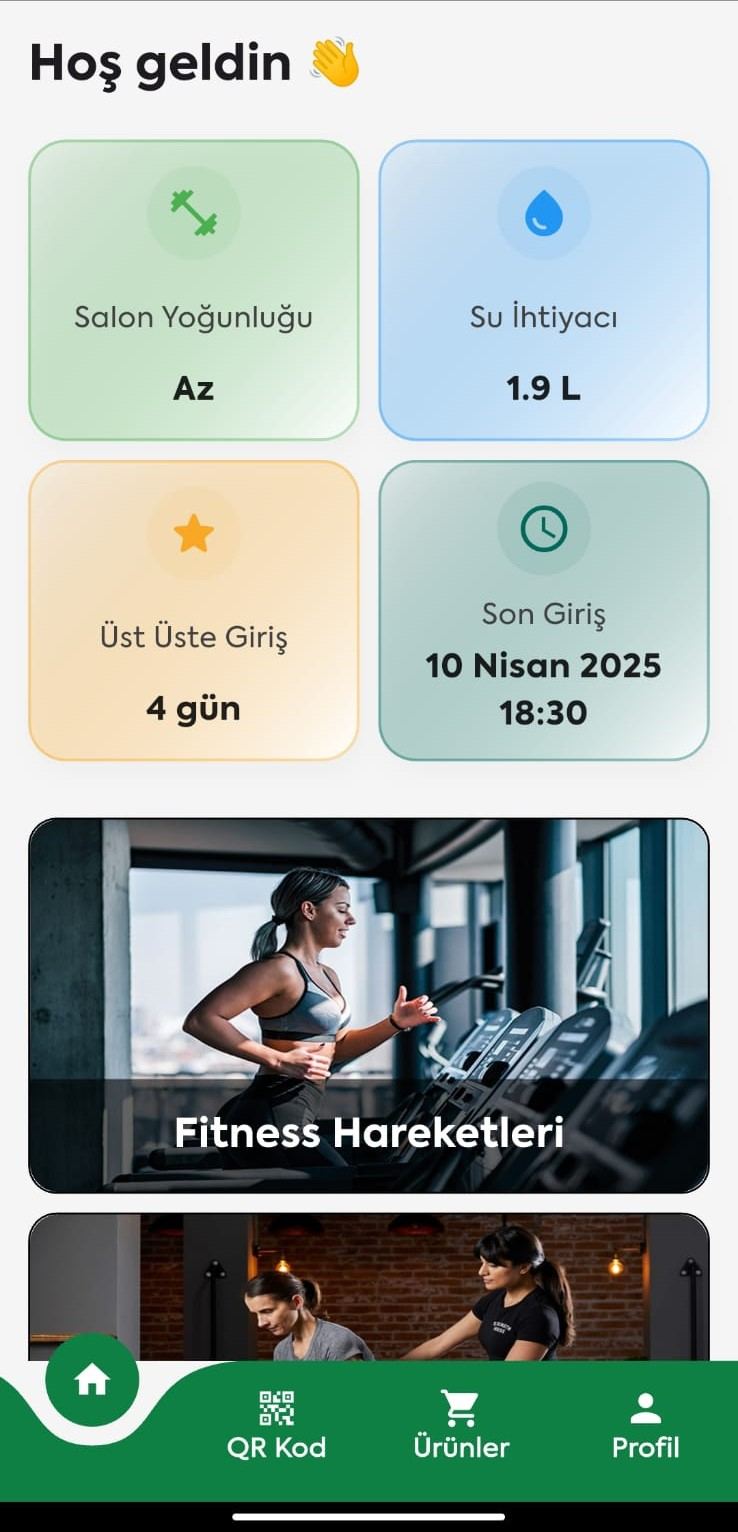
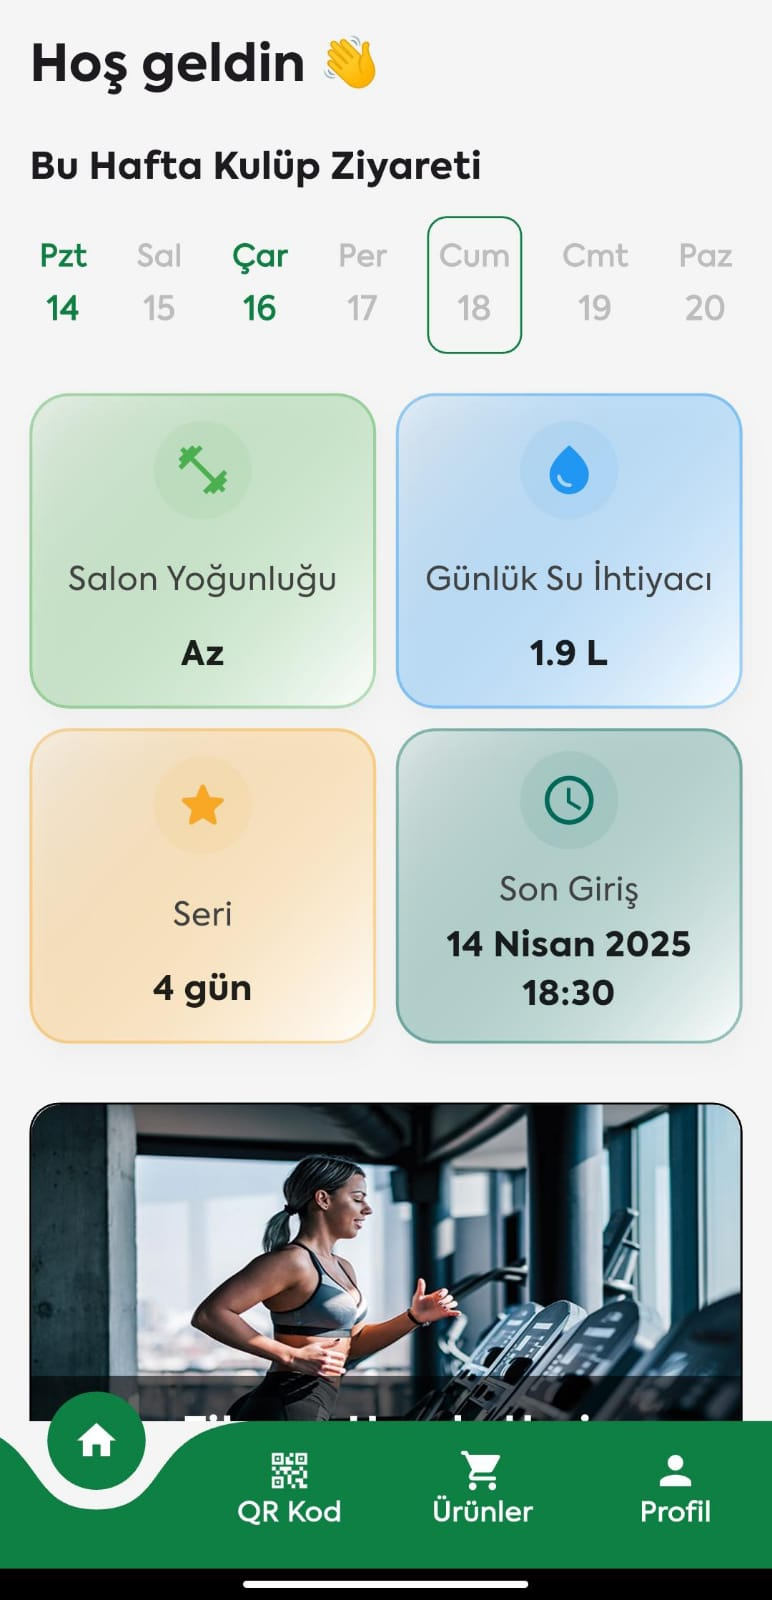
home screen update

diff --git a/lib/global/global_widgets.dart b/lib/global/global_widgets.dart
@@ -2,10 +2,8 @@ import 'package:fitness_app/global/theme_notifier.dart';
 import 'package:fitness_app/module/auth/login/index.dart';
 import 'package:flutter/material.dart';
 import 'package:provider/provider.dart';
-import 'package:rxdart/rxdart.dart';
 import '../module/login_history/login_history_list.dart';
-import 'global_config.dart';
-import 'global_functions.dart';
+import '../module/membership_info/index.dart';
 
 class InputWidget extends StatefulWidget {
   const InputWidget({
@@ -583,9 +581,7 @@ Widget sssContainers(BuildContext context, String title, String content) {
         ),
         child: ExpansionTile(
           onExpansionChanged: (bool expanded) {
-            if (expanded) {
-              FocusScope.of(context).unfocus();
-            }
+            FocusScope.of(context).unfocus();
           },
           iconColor: Colors.black,
           collapsedIconColor: Colors.black,
@@ -648,15 +644,17 @@ Widget feedbackForm(BuildContext context) {
           showSnackBar(context, "Geri bildiriminiz gönderildi");
         },
         style: ElevatedButton.styleFrom(
+          fixedSize: Size(W(context), 55),
           backgroundColor: GlobalConfig.primaryColor,
-          padding: horizontal20 + vertical10,
+          padding: vertical10,
           shape: RoundedRectangleBorder(
             borderRadius: border10,
           ),
         ),
         child: Text(
           "Gönder",
-          style: kAxiformaRegular17.copyWith(fontSize: 13, color: Colors.white),
+          style: kAxiformaRegular17.copyWith(
+              fontSize: 15, color: Colors.white, fontWeight: FontWeight.bold),
         ),
       ),
       const SizedBox(height: 10)
@@ -723,7 +721,7 @@ Widget homeScreenInfoCard({
         Text(
           title,
           style: kAxiformaRegular17.copyWith(
-            fontSize: 13,
+            fontSize: 14,
             color: Colors.grey.shade800,
           ),
           textAlign: TextAlign.center,
@@ -741,4 +739,74 @@ Widget homeScreenInfoCard({
       ],
     ),
   );
+}
+
+class WeeklyGymCalendar extends StatelessWidget {
+  const WeeklyGymCalendar({super.key});
+
+  @override
+  Widget build(BuildContext context) {
+    final today = DateTime.now();
+    final startOfWeek = today.subtract(Duration(days: today.weekday - 1));
+    final weekDays =
+        List.generate(7, (index) => startOfWeek.add(Duration(days: index)));
+
+    return Column(
+      crossAxisAlignment: CrossAxisAlignment.start,
+      children: [
+        Text("Bu Hafta Kulüp Ziyareti",
+            style: kAxiforma18.copyWith(fontSize: 16)),
+        const SizedBox(height: 10),
+        SizedBox(
+          height: 70,
+          child: Row(
+            mainAxisAlignment: MainAxisAlignment.spaceBetween,
+            children: weekDays.map((day) {
+              final dayLabel = DateFormat.E('tr_TR').format(day);
+              final dayNumber = day.day.toString();
+
+              final isToday = DateUtils.isSameDay(day, today);
+              final isVisited = pastGymEntries.any(
+                  (entry) => DateUtils.isSameDay(entry.entryDateTime, day));
+
+              final dayColor =
+                  isVisited ? GlobalConfig.primaryColor : Colors.grey.shade400;
+
+              return Container(
+                padding: horizontal5,
+                decoration: isToday
+                    ? BoxDecoration(
+                        border: Border.all(
+                            color: GlobalConfig.primaryColor, width: 1),
+                        borderRadius: border10,
+                      )
+                    : null,
+                child: Column(
+                  mainAxisAlignment: MainAxisAlignment.center,
+                  children: [
+                    Text(
+                      dayLabel,
+                      style: kAxiformaRegular17.copyWith(
+                          fontSize: 13,
+                          fontWeight: FontWeight.bold,
+                          color: dayColor),
+                    ),
+                    const SizedBox(height: 4),
+                    Text(
+                      dayNumber,
+                      style: kAxiformaRegular17.copyWith(
+                          fontSize: 14,
+                          fontWeight: FontWeight.bold,
+                          color: dayColor),
+                    ),
+                  ],
+                ),
+              );
+            }).toList(),
+          ),
+        ),
+        const SizedBox(height: 20),
+      ],
+    );
+  }
 }

diff --git a/lib/module/home/home_screen.dart b/lib/module/home/home_screen.dart
@@ -38,11 +38,10 @@ class HomeScreen extends StatelessWidget {
                   children: [
                     Text(
                       "Hoş geldin 👋",
-                      style: kAxiforma18.copyWith(
-                        fontSize: 22,
-                      ),
+                      style: kAxiforma18.copyWith(fontSize: 22),
                     ),
                     const SizedBox(height: 20),
+                    const WeeklyGymCalendar(),
                     GridView(
                       shrinkWrap: true,
                       physics: const NeverScrollableScrollPhysics(),
@@ -61,13 +60,13 @@ class HomeScreen extends StatelessWidget {
                           icon: Icons.fitness_center,
                         ),
                         homeScreenInfoCard(
-                          title: "Su İhtiyacı",
+                          title: "Günlük Su İhtiyacı",
                           value: "${(waterIntake / 1000).toStringAsFixed(1)} L",
                           color: Colors.blue,
                           icon: Icons.water_drop,
                         ),
                         homeScreenInfoCard(
-                          title: "Üst Üste Giriş",
+                          title: "Seri",
                           value: "$consecutiveEntries gün",
                           color: Colors.yellow.shade800,
                           icon: Icons.star_rounded,

diff --git a/lib/module/body_analysis/body_analysis_screen.dart b/lib/module/body_analysis/body_analysis_screen.dart
@@ -52,7 +52,7 @@ class BodyAnalysisScreen extends StatelessWidget {
                   ),
                   const SizedBox(height: 10),
                   CircularPercentIndicator(
-                    radius: 90.0,
+                    radius: 80.0,
                     lineWidth: 13.0,
                     animation: true,
                     percent: (bmi / 40).clamp(0.0, 1.0),
@@ -70,7 +70,7 @@ class BodyAnalysisScreen extends StatelessWidget {
                     ),
                     circularStrokeCap: CircularStrokeCap.round,
                     backgroundColor: Colors.grey.shade300,
-                    progressColor: GlobalConfig.primaryColor,
+                    progressColor: bmiColor(bmi),
                   ),
                   const SizedBox(height: 20),
                   infoTile("Günlük Kalori İhtiyacı",

diff --git a/lib/module/login_history/login_history_list.dart b/lib/module/login_history/login_history_list.dart
@@ -15,13 +15,13 @@ class GymEntryModel {
 final List<GymEntryModel> pastGymEntries = [
   GymEntryModel(
     gymName: "FitLife Gym",
-    entryDateTime: DateTime(2025, 4, 10, 18, 30),
+    entryDateTime: DateTime(2025, 4, 14, 18, 30),
     location: "Kadıköy, İstanbul",
     entryMethod: "QR Kod",
   ),
   GymEntryModel(
     gymName: "PowerZone Fitness",
-    entryDateTime: DateTime(2025, 4, 8, 7, 45),
+    entryDateTime: DateTime(2025, 4, 16, 7, 45),
     location: "Beşiktaş, İstanbul",
     entryMethod: "Turnike",
   ),

diff --git a/lib/module/login_history/login_history_screen.dart b/lib/module/login_history/login_history_screen.dart
@@ -8,7 +8,7 @@ class LoginHistoryScreen extends StatelessWidget {
   Widget build(BuildContext context) {
     return Scaffold(
       backgroundColor: Colors.grey.shade200,
-      appBar: customAppBar(context, "Giriş Geçmişi"),
+      appBar: customAppBar(context, "Geçmiş Salon Girişleri"),
       body: SafeArea(
         child: pastGymEntries.isEmpty
             ? Center(

diff --git a/lib/module/membership_info/membership_info_screen.dart b/lib/module/membership_info/membership_info_screen.dart
@@ -24,7 +24,7 @@ class _MembershipInformationScreenState
   Widget build(BuildContext context) {
     return Scaffold(
       backgroundColor: Colors.grey.shade200,
-      appBar: customAppBar(context, "Üyelik Bilgilerim"),
+      appBar: customAppBar(context, "Üyelik Bilgileri"),
       body: Column(
         children: [
           Row(

diff --git a/lib/global/global_variables.dart b/lib/global/global_variables.dart
@@ -80,6 +80,13 @@ String getBMICategory(double bmi) {
   return "Obez";
 }
 
+Color bmiColor(double bmi) {
+  if (bmi < 18.5) return Colors.amber;
+  if (bmi < 25) return GlobalConfig.primaryColor;
+  if (bmi < 30) return Colors.orange;
+  return Colors.red;
+}
+
 double calculateDailyWaterIntake(double weight) {
   return weight * 35;
 }

diff --git a/lib/module/profile/profile_button_list.dart b/lib/module/profile/profile_button_list.dart
@@ -44,7 +44,7 @@ final List<ProfileMenuItem> profileMenuItems = [
     },
   ),
   ProfileMenuItem(
-    title: 'Geçmiş Girişlerim',
+    title: 'Geçmiş Salon Girişleri',
     icon: Icons.history,
     onPressed: (context) {
       Navigator.push(
